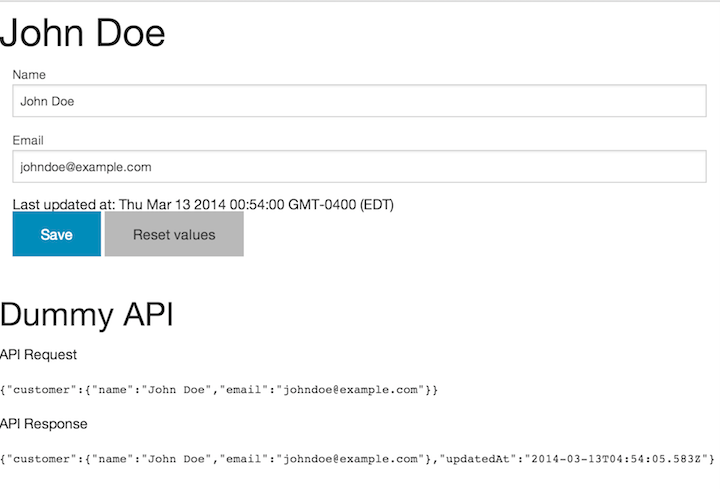
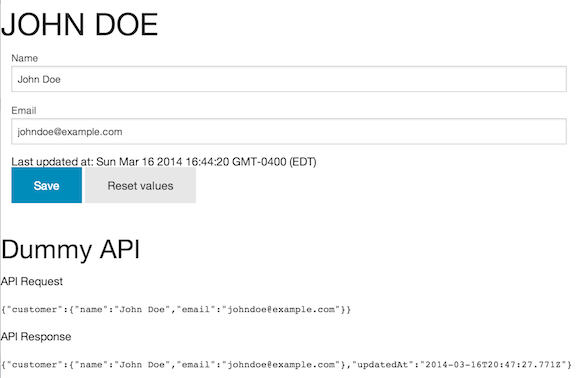
more configuration

diff --git a/dist/app.js b/dist/app.js
@@ -1848,7 +1848,48 @@ var tmpl = require('./templates/customer.hbs'),
     api = require('../api'),
     _ = require('underscore');
 
-var CustomerFields = new Enum(['name', 'email']);
+function createModel(elem, interactionConfig) {
+    var model = Bacon.Model({});
+    interactionConfig.getValues().forEach(function (interaction) {
+        var interactionName = interaction.getName();
+        if (interaction.from) {
+            var selector = interaction.from.selector || interaction.from.elemType + '[name=' + interactionName + ']';
+            var field = Bacon.$[interaction.from.bindingType + 'Value'](elem.find(selector));
+            model.lens(interactionName).bind(field);
+        }
+
+        if (interaction.to) {
+            interaction.to.forEach(function (listener) {
+                var fld = listener.formatter ? field.map(listener.formatter) : field;
+                fld.assign(elem.find(listener.selector), listener.attr);
+            });
+        }
+    });
+    return model;
+}
+
+var BindingTypes = new Enum(['textField', 'checkBox', 'select', 'radioGroup', 'checkBoxGroup']);
+var CustomerInteractions = new Enum({
+    name: {
+        from: {
+            elemType: 'input',
+            bindingType: BindingTypes.textField
+        },
+        to: [{
+            selector: 'h1.customer-name',
+            attr: 'text',
+            formatter: function(value) {
+                return value.toUpperCase();
+            }
+        }]
+    },
+    email: {
+        from: {
+            elemType: 'input',
+            bindingType: BindingTypes.textField
+        }
+    }
+});
 
 var CustomerView = module.exports = function CustomerView(data) {
     this.model = data;
@@ -1860,19 +1901,7 @@ var CustomerView = module.exports = function CustomerView(data) {
 
     this.render();
 
-    var elem = this.element;
-
-    var model = Bacon.Model({});
-    CustomerFields.getValues().forEach(function(field) {
-        var fieldName = field.getName();
-        var input = Bacon.$.textFieldValue(elem.find('input[name=' + fieldName + ']'));
-
-        model.lens(fieldName).bind(input);
-
-        if (fieldName === 'name') {
-            input.assign(elem.find('h1.customer-name'), 'text');
-        }
-    });
+    var model = createModel(this.element, CustomerInteractions);
 
     var save = Bacon.fromEventTarget(this.element.find('button[type="submit"]'), "click")
         .doAction(".preventDefault");
@@ -1911,7 +1940,7 @@ helpers = this.merge(helpers, Handlebars.helpers); data = data || {};
   if (helper = helpers.name) { stack1 = helper.call(depth0, {hash:{},data:data}); }
   else { helper = (depth0 && depth0.name); stack1 = typeof helper === functionType ? helper.call(depth0, {hash:{},data:data}) : helper; }
   buffer += escapeExpression(stack1)
-    + "</h1>\n</div>\n\n<form>\n  <div class=\"row\">\n    <div class=\"large-6 columns\">\n      <label>Name</label>\n      <input id=\"abc\" type=\"text\" name=\"name\" value=\"";
+    + "</h1>\n</div>\n\n<form>\n  <div class=\"row\">\n    <div class=\"large-6 columns\">\n      <label>Name</label>\n      <input type=\"text\" name=\"name\" value=\"";
   if (helper = helpers.name) { stack1 = helper.call(depth0, {hash:{},data:data}); }
   else { helper = (depth0 && depth0.name); stack1 = typeof helper === functionType ? helper.call(depth0, {hash:{},data:data}) : helper; }
   buffer += escapeExpression(stack1)

diff --git a/src/views/customer-view.js b/src/views/customer-view.js
@@ -3,7 +3,66 @@ var tmpl = require('./templates/customer.hbs'),
     api = require('../api'),
     _ = require('underscore');
 
-var CustomerFields = new Enum(['name', 'email']);
+function createModel(elem, interactionConfig) {
+    var model = Bacon.Model({});
+    interactionConfig.getValues().forEach(function (interaction) {
+        var interactionName = interaction.getName();
+        if (interaction.from) {
+            var selector = interaction.from.selector || interaction.from.elemType + '[name=' + interactionName + ']';
+            var field = Bacon.$[interaction.from.bindingType + 'Value'](elem.find(selector));
+            model.lens(interactionName).bind(field);
+        }
+
+        if (interaction.to) {
+            interaction.to.forEach(function (listener) {
+                var fld = listener.formatter ? field.map(listener.formatter) : field;
+                fld.assign(elem.find(listener.selector), listener.attr);
+            });
+        }
+    });
+    return model;
+}
+
+function createEventStreams(elem, eventConfig) {
+    var streams = {};
+    eventConfig.getValues().forEach(function (event) {
+        streams[event.getName()] = Bacon.fromEventTarget(elem.find(event.target.selector), event.target.eventType)
+            .doAction(".preventDefault");
+    });
+    return streams;
+}
+
+var BindingTypes = new Enum(['textField', 'checkBox', 'select', 'radioGroup', 'checkBoxGroup']);
+var CustomerInteractions = new Enum({
+    name: {
+        from: {
+            elemType: 'input',
+            bindingType: BindingTypes.textField
+        },
+        to: [{
+            selector: 'h1.customer-name',
+            attr: 'text',
+            formatter: function(value) {
+                return value.toUpperCase();
+            }
+        }]
+    },
+    email: {
+        from: {
+            elemType: 'input',
+            bindingType: BindingTypes.textField
+        }
+    }
+});
+
+var CustomerEvents = new Enum({
+    save: {
+        target: {
+            selector: 'button[type="submit"]',
+            eventType: 'click'
+        }
+    }
+});
 
 var CustomerView = module.exports = function CustomerView(data) {
     this.model = data;
@@ -15,25 +74,12 @@ var CustomerView = module.exports = function CustomerView(data) {
 
     this.render();
 
-    var elem = this.element;
+    var model = createModel(this.element, CustomerInteractions);
 
-    var model = Bacon.Model({});
-    CustomerFields.getValues().forEach(function(field) {
-        var fieldName = field.getName();
-        var input = Bacon.$.textFieldValue(elem.find('input[name=' + fieldName + ']'));
-
-        model.lens(fieldName).bind(input);
-
-        if (fieldName === 'name') {
-            input.assign(elem.find('h1.customer-name'), 'text');
-        }
-    });
-
-    var save = Bacon.fromEventTarget(this.element.find('button[type="submit"]'), "click")
-        .doAction(".preventDefault");
+    var eventStreams = createEventStreams(this.element, CustomerEvents);
+    var save = eventStreams['save'];
 
     var request = Bacon.combineTemplate({customer: model});
-
     var submits = request.sampledBy(save)
         .flatMapLatest(function (req) {
             return Bacon.fromPromise(api.persistCustomer(req));

diff --git a/README.md b/README.md
@@ -19,28 +19,74 @@ It will create `dist/app.js`
 
 Code
 ----
+        function createModel(elem, interactionConfig) {
+            var model = Bacon.Model({});
+            interactionConfig.getValues().forEach(function (interaction) {
+                var interactionName = interaction.getName();
+                if (interaction.from) {
+                    var selector = interaction.from.selector || interaction.from.elemType + '[name=' + interactionName + ']';
+                    var field = Bacon.$[interaction.from.bindingType + 'Value'](elem.find(selector));
+                    model.lens(interactionName).bind(field);
+                }
 
-        var CustomerFields = new Enum(['name', 'email']); //TODO add type
+                if (interaction.to) {
+                    interaction.to.forEach(function (listener) {
+                        var fld = listener.formatter ? field.map(listener.formatter) : field;
+                        fld.assign(elem.find(listener.selector), listener.attr);
+                    });
+                }
+            });
+            return model;
+        }
 
-        ...
+        function createEventStreams(elem, eventConfig) {
+            var streams = {};
+            eventConfig.getValues().forEach(function (event) {
+                streams[event.getName()] = Bacon.fromEventTarget(elem.find(event.target.selector), event.target.eventType)
+                    .doAction(".preventDefault");
+            });
+            return streams;
+        }
 
-        var model = Bacon.Model({});
-        CustomerFields.getValues().forEach(function(field) {
-            var fieldName = field.getName();
-            var input = Bacon.$.textFieldValue(elem.find('input[name=' + fieldName + ']'));
-
-            model.lens(fieldName).bind(input);
-
-            if (fieldName === 'name') {
-               input.assign(elem.find('h1.customer-name'), 'text');
+        var CustomerInteractions = new Enum({
+            name: {
+                from: {
+                    elemType: 'input',
+                    bindingType: BindingTypes.textField
+                },
+                to: [{
+                    selector: 'h1.customer-name',
+                    attr: 'text',
+                    formatter: function(value) {
+                        return value.toUpperCase();
+                    }
+                }]
+            },
+            email: {
+                from: {
+                    elemType: 'input',
+                    bindingType: BindingTypes.textField
+                }
             }
         });
 
-        var save = Bacon.fromEventTarget(this.element.find('button[type="submit"]'), "click")
-            .doAction(".preventDefault");
+        var CustomerEvents = new Enum({
+            save: {
+                target: {
+                    selector: 'button[type="submit"]',
+                    eventType: 'click'
+                }
+            }
+        });
+
+        ...
+
+        var model = createModel(this.element, CustomerInteractions);
+
+        var eventStreams = createEventStreams(this.element, CustomerEvents);
+        var save = eventStreams['save'];
 
         var request = Bacon.combineTemplate({customer: model});
-
         var submits = request.sampledBy(save)
             .flatMapLatest(function (req) {
                 return Bacon.fromPromise(api.persistCustomer(req));
